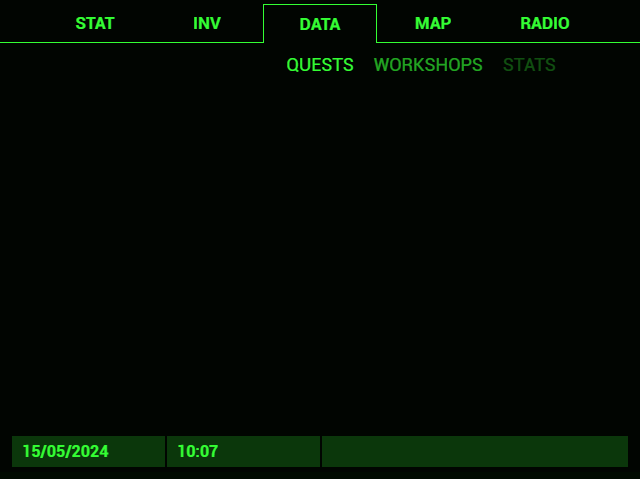
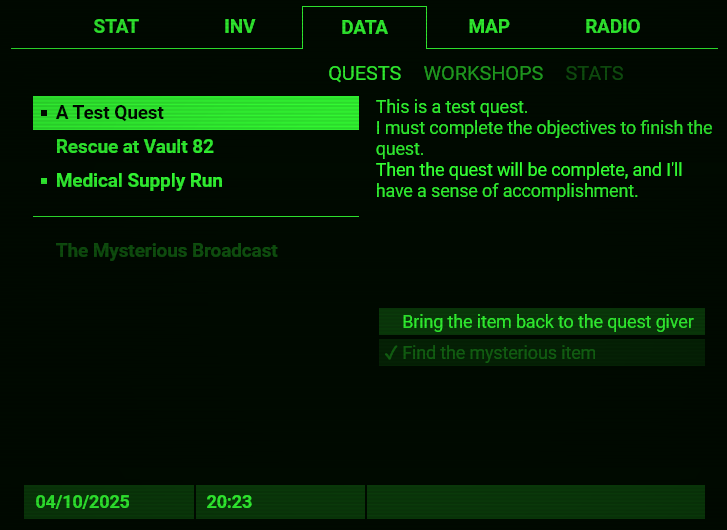
Doc: Add new quests screen to the Readme files

diff --git a/localizedReadme/README-fr.md b/localizedReadme/README-fr.md
@@ -22,6 +22,7 @@ Le **Cogilabs Pip-Boy 3000 Mk4** est une version du Pip-Boy de Fallout 4 que je 
   - [Carte](#carte)
   - [Radio](#radio)
   - [Statut](#statut)
+  - [Quêtes](#quêtes)
   - [Autre](#autre)
 - [Le Pip-Boy physique](#le-pip-boy-physique)
   - [Les branchements](#les-branchements)
@@ -160,10 +161,16 @@ L'onglet des perks affichera chaque perk présente dans le fichier de profil, av
 
 ![Perks](/readme_sources/images/perks.png)
 
+### Quêtes
+
+L'utilisateur peut définir des quêtes dans son fichier de profil (et bientôt via l'outil de création de profils).  
+Ces quêtes sont affichées dans l'ordre où elles sont déclarées dans le fichier. Celles qui sont complétées apparaissent, bien sûr, sous les quêtes non complétées.  
+
+![Données/Quêtes](/readme_sources/images/quests.png)  
+
 ### Autre
 
-Pour les onglets Données et Carte, le pied de page donne la date et l'heure, donc le Pip-Boy pourrait même être utilisé comme montre :  
-![Données/Quêtes](/readme_sources/images/quests.png)  
+Pour les onglets Données et Carte, le pied de page affiche la date et l'heure, donc le Pip-Boy pourrait même être utilisé comme montre, voir les captures ci-dessus.
 
 ## Le Pip-Boy physique
 

diff --git a/README.md b/README.md
@@ -22,6 +22,7 @@ The **Cogilabs Pip-Boy 3000 Mk4** is a version of Fallout 4's Pip-Boy I'm making
   - [Map](#map)
   - [Radio](#radio)
   - [Status](#status)
+  - [Quests](#quests)
   - [Other](#other)
 - [The physical Pip-Boy](#the-physical-pip-boy)
   - [The wiring](#the-wiring)
@@ -161,10 +162,16 @@ The perks tab will show any of the perks present in the profile file, with their
 
 ![Perks](/readme_sources/images/perks.png)
 
+### Quests
+
+The user can set quests in their profile file (and soon via the profile creator tool).
+Those quests are displayed in the order they are declared in the file, except of course for those that are completed, they appear under the non-completed ones.  
+
+![Data/Quests](/readme_sources/images/quests.png)  
+
 ### Other
 
-For the Data and Map tabs, the footer gives the date and time, so the Pip-Boy could even be used as a watch:  
-![Data/Quests](/readme_sources/images/quests.png)  
+For the Data and Map tabs, the footer gives the date and time, so the Pip-Boy could even be used as a watch, see screenshots above.
 
 ## The physical Pip-Boy
 
